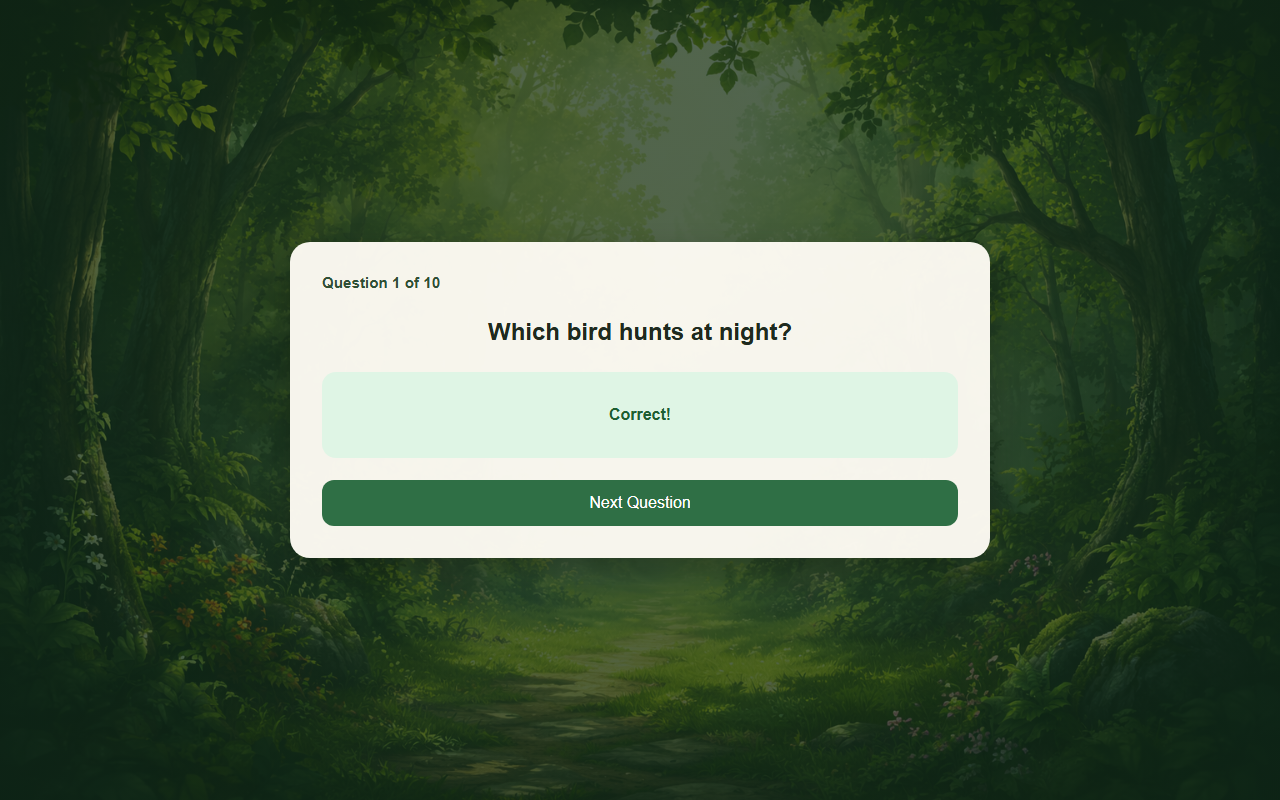
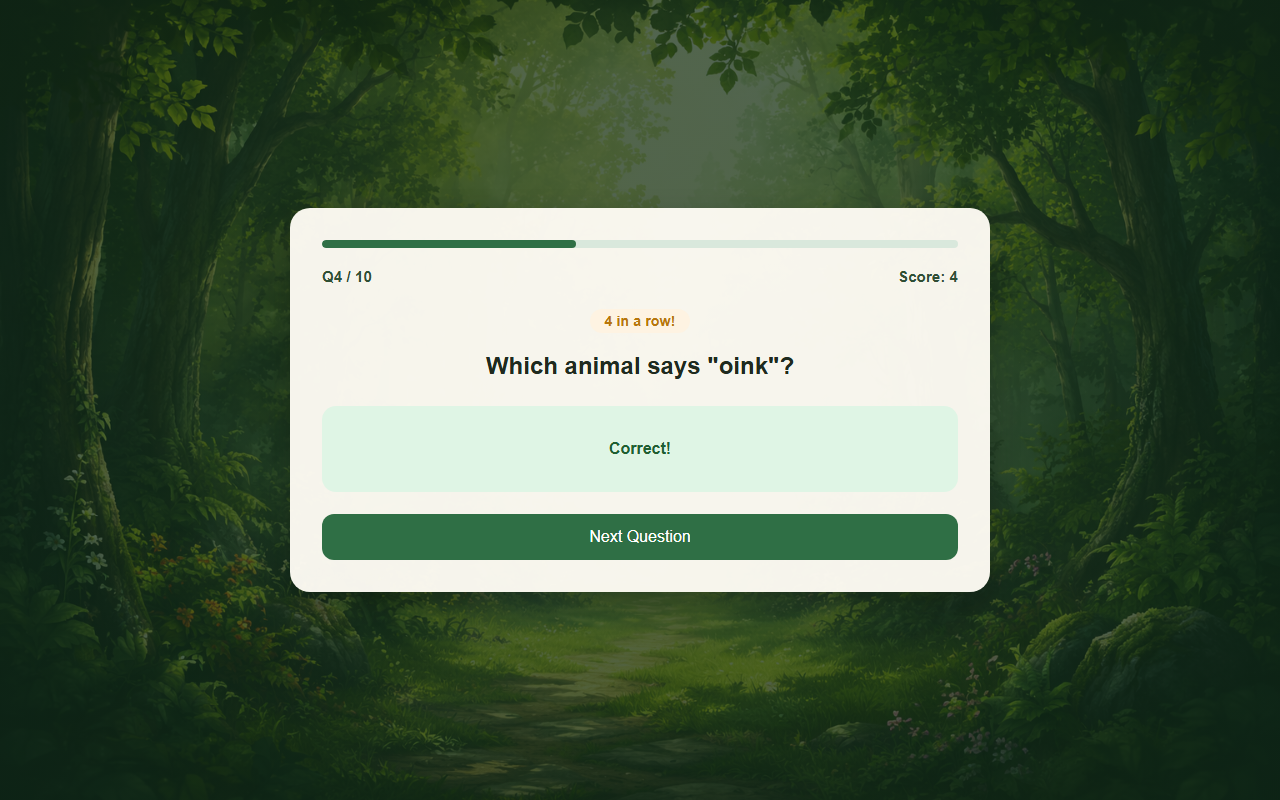
Retake screenshots with updated UI and add streak screenshot
Captures progress bar, live score, tidy top bar, and streak badge.

diff --git a/README.md b/README.md
@@ -30,6 +30,10 @@ This was my first Flask project. The aim was to build a complete, polished begin
 
 ![Quiz Page](static/images/screenshot-quiz.png)
 
+### Streak Counter
+
+![Streak](static/images/screenshot-streak.png)
+
 ### Answer Feedback
 
 ![Feedback](static/images/screenshot-feedback.png)
